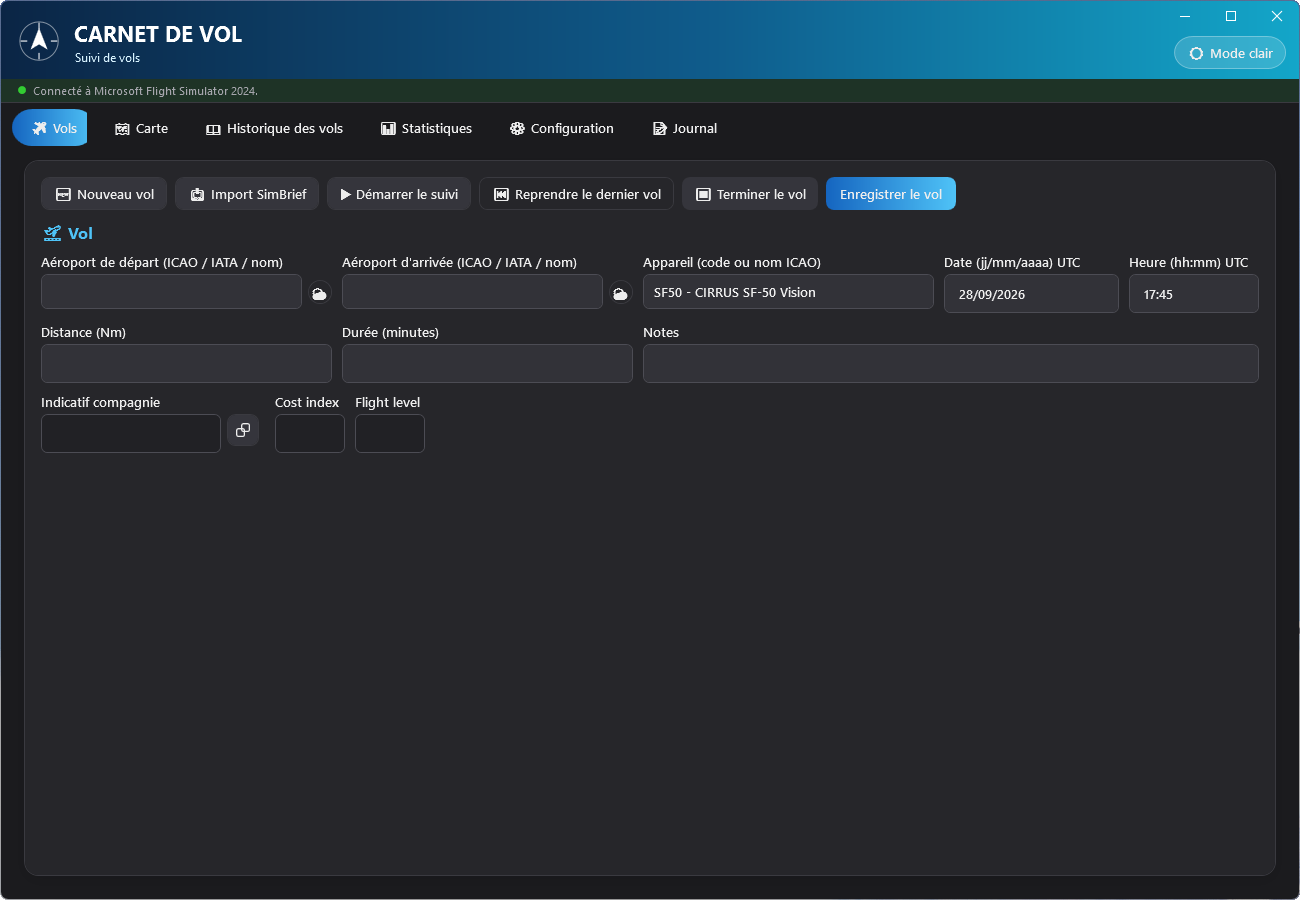
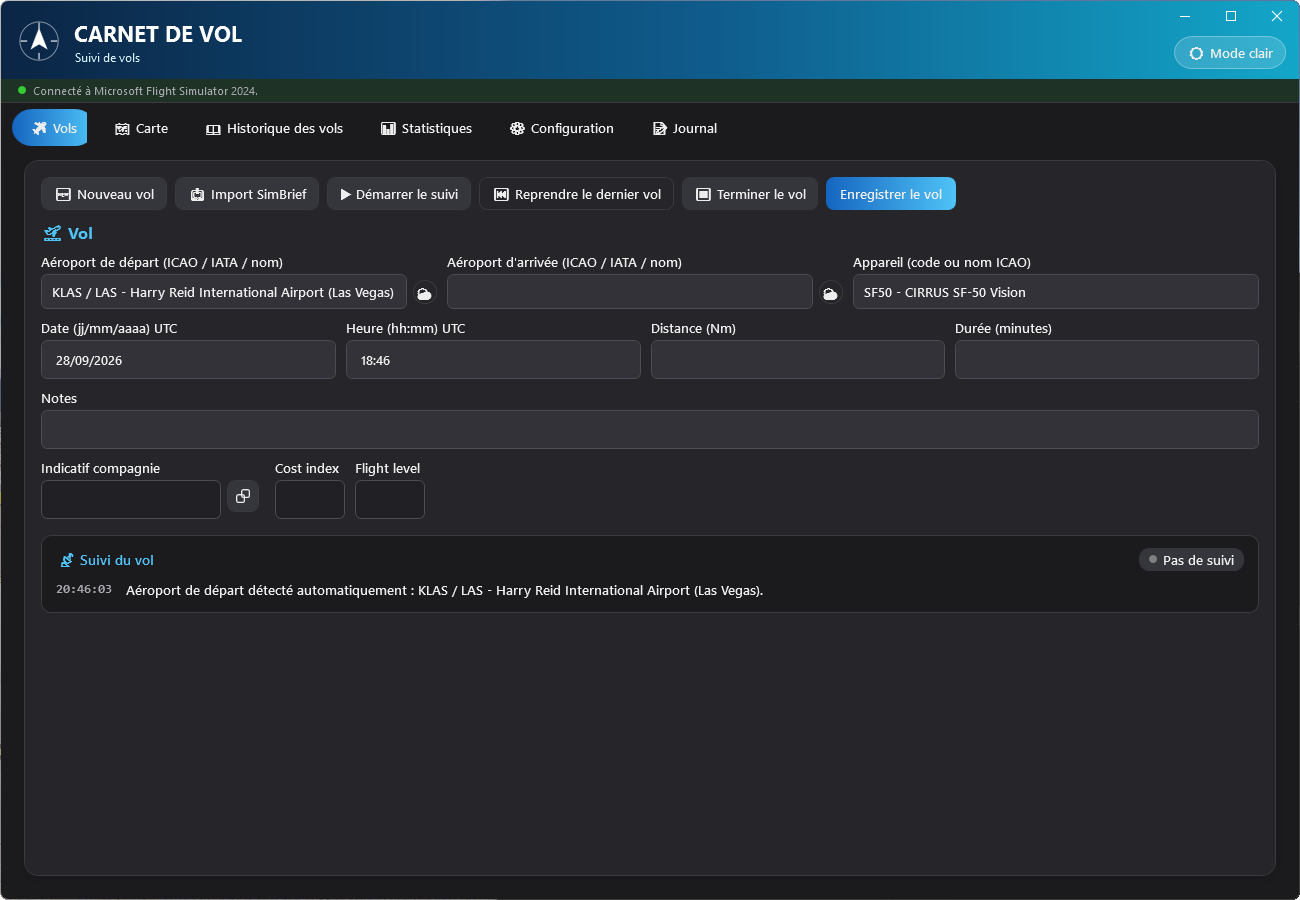
Carnet de Vol 1.0.27 : guides, captures et plaquettes
- Guides fr/en/es recopiés : cadre « Suivi du vol » de l'onglet Vols, onglet
  Configuration sur deux colonnes, version 1.0.27, titres d'encadrés.
- Les 12 captures des guides et les captures Vols/Configuration des
  plaquettes (assets/img/carnetdevol) refaites ; tailles inchangées.

diff --git a/guides/carnetdevol/guia-usuario.html b/guides/carnetdevol/guia-usuario.html
@@ -225,7 +225,7 @@
   .callout.tip { background: var(--accent-soft); border-color: color-mix(in srgb, var(--accent) 30%, transparent); }
   .callout.warn { background: var(--danger-soft); border-color: color-mix(in srgb, var(--danger) 30%, transparent); }
   .callout.note { background: var(--accent2-soft); border-color: color-mix(in srgb, var(--accent2) 30%, transparent); }
-  .callout strong { display: block; margin-bottom: 4px; }
+  .callout > strong:first-child { display: block; margin-bottom: 4px; }
 
   .example {
     border-left: 3px solid var(--accent);
@@ -272,7 +272,7 @@
   <div class="icon">🧭</div>
   <h1>Bitácora de vuelo — Guía del usuario</h1>
   <p>Seguimiento de vuelos · Microsoft Flight Simulator 2024</p>
-  <span class="badge">Versión 1.0.26 · Windows · aplicación nativa</span>
+  <span class="badge">Versión 1.0.27 · Windows · aplicación nativa</span>
 </header>
 
 <div class="layout">
@@ -413,9 +413,10 @@
       <figure>
         <img src="../../assets/img/carnetdevol/en-vols.png" alt="Pestaña Vuelos: vuelo Londres – París importado de SimBrief, seguimiento en curso" loading="lazy" />
         <figcaption>El formulario de vuelo (capturas con la interfaz en inglés), aquí rellenado por
-        la importación de SimBrief durante un seguimiento en directo: aeropuertos, aeronave,
-        fecha/hora, distancia, duración, notas, indicativo de la aerolínea, cost index y flight
-        level.</figcaption>
+        la importación de SimBrief durante un seguimiento en directo: aeropuertos y aeronave en la
+        primera fila, fecha/hora, distancia y duración en la segunda, notas en todo el ancho y
+        después indicativo de la aerolínea, cost index y flight level; debajo, el recuadro
+        «Seguimiento del vuelo».</figcaption>
       </figure>
 
       <h3 id="vuelos-manual">Introducción manual</h3>
@@ -508,6 +509,20 @@
           (calculada a partir de la traza GPS, no en línea recta), duración, altitud máxima,
           aeronave y datos del aterrizaje se rellenan sin introducción manual.</li>
         </ol>
+        <p>El recuadro <strong>Seguimiento del vuelo</strong>, debajo del formulario, resume el
+        seguimiento:</p>
+        <ul>
+          <li>una <strong>etiqueta</strong> arriba a la derecha: <em>Sin seguimiento</em> (punto gris)
+          o <em>Seguimiento en curso</em> (punto verde);</li>
+          <li>el <strong>último aterrizaje</strong> (calidad, velocidad vertical, G y rebotes);</li>
+          <li>el <strong>historial con la hora</strong> de las etapas del seguimiento: inicio,
+          aeropuerto de salida detectado, aterrizaje, vuelo guardado. Cada etapa se añade a la
+          lista en lugar de sustituir a la anterior, y los <strong>errores</strong> (MSFS no
+          conectado, falta el aeropuerto de salida, llegada no encontrada…) se muestran
+          <strong>en naranja</strong>.</li>
+        </ul>
+        <p>El historial vuelve a empezar al iniciar un nuevo seguimiento y al pulsar
+        <span class="btn-label">🆕 Nuevo vuelo</span>.</p>
         <div class="callout tip">
           <strong>Aeronave detectada automáticamente</strong>
           Nada más conectarse a MSFS, la aplicación identifica la aeronave cargada en el simulador
@@ -551,7 +566,9 @@
           <img src="../../assets/img/carnetdevol/en-atterrissage.png" alt="Ventana emergente de aterrizaje: Suave, 180 ft/min, 1,28 G, icono de pluma" loading="lazy" style="max-width: 344px;" />
           <figcaption>La ventana emergente de aterrizaje tras una toma «Suave»; la cruz de arriba a la derecha la cierra.</figcaption>
         </figure>
-        <p>Esta calidad y estos valores también se guardan con el vuelo y pueden consultarse más
+        <p>La calidad y los valores siguen visibles después en el recuadro
+        <a href="#vuelos-seguimiento">Seguimiento del vuelo</a> de la pestaña Vuelos (línea
+        «Último aterrizaje»). También se guardan con el vuelo y pueden consultarse más
         tarde en el <a href="#pestana-historial">Historial de vuelos</a> (columnas «Aterrizaje
         (ft/min)», «Aterrizaje (G)», «Rebotes» y «Calidad del aterrizaje»), por ejemplo para
         filtrar sus mejores (o peores) aterrizajes.</p>
@@ -568,7 +585,8 @@
           <li>MSFS 2024 está abierto, con un vuelo cargado en el aparcamiento de salida. La barra de estado se pone verde.</li>
           <li>La aeronave cargada en MSFS aparece sola en el campo <span class="ui">Aeronave</span>.</li>
           <li>Empieza a rodar: el aeropuerto de salida se rellena solo, el seguimiento empieza
-          automáticamente y la pestaña <span class="ui">Mapa</span> empieza a dibujar su posición.</li>
+          automáticamente (el recuadro <span class="ui">Seguimiento del vuelo</span> pasa a
+          «Seguimiento en curso») y la pestaña <span class="ui">Mapa</span> empieza a dibujar su posición.</li>
           <li>En vuelo, consulta el panel <span class="ui">Datos en directo</span> (altitud, rumbo,
           velocidades, hora estimada de llegada) directamente en el mapa.</li>
           <li>Tres segundos después de la toma, una ventana muestra la calidad de su aterrizaje
@@ -698,10 +716,14 @@
       <p class="section-lead">Idioma de la aplicación, usuario de SimBrief, actualización de aeropuertos/aeronaves e importación de SimToolKitPro.</p>
       <figure>
         <img src="../../assets/img/carnetdevol/en-config.png" alt="Pestaña Configuración con los bloques Idioma, SimBrief, Aeropuertos y Aeronaves" loading="lazy" />
-        <figcaption>Elección del idioma, usuario de SimBrief y, después, contadores y fecha de la
-        última actualización de cada conjunto de datos.</figcaption>
+        <figcaption>Los ajustes a la izquierda (idioma, usuario de SimBrief, importación de
+        SimToolKitPro) y los conjuntos de datos a la derecha, con sus contadores y la fecha de la
+        última actualización.</figcaption>
       </figure>
       <div class="card">
+        <p>La pestaña se organiza en <strong>dos columnas</strong>: los ajustes a la izquierda y
+        los datos de aeropuertos y aeronaves a la derecha. En una ventana estrecha (menos de unos
+        900 píxeles de ancho), los bloques se apilan en una sola columna.</p>
         <h4>🌐 Idioma</h4>
         <p>La lista <strong>Idioma de la aplicación</strong> solo ofrece los idiomas disponibles
         (actualmente <strong>Español</strong>, <strong>English</strong> y <strong>Français</strong>).
@@ -928,7 +950,7 @@
 </div>
 
 <footer>
-  Bitácora de vuelo (Carnet de Vol) — FS2024 · Guía redactada para la versión 1.0.26.
+  Bitácora de vuelo (Carnet de Vol) — FS2024 · Guía redactada para la versión 1.0.27.
 </footer>
 
 <script>

diff --git a/guides/carnetdevol/guide-utilisateur.html b/guides/carnetdevol/guide-utilisateur.html
@@ -225,7 +225,7 @@
   .callout.tip { background: var(--accent-soft); border-color: color-mix(in srgb, var(--accent) 30%, transparent); }
   .callout.warn { background: var(--danger-soft); border-color: color-mix(in srgb, var(--danger) 30%, transparent); }
   .callout.note { background: var(--accent2-soft); border-color: color-mix(in srgb, var(--accent2) 30%, transparent); }
-  .callout strong { display: block; margin-bottom: 4px; }
+  .callout > strong:first-child { display: block; margin-bottom: 4px; }
 
   .example {
     border-left: 3px solid var(--accent);
@@ -272,7 +272,7 @@
   <div class="icon">🧭</div>
   <h1>Carnet de Vol — Guide de l'utilisateur</h1>
   <p>Suivi de vols · Microsoft Flight Simulator 2024</p>
-  <span class="badge">Version 1.0.26 · Windows · application native</span>
+  <span class="badge">Version 1.0.27 · Windows · application native</span>
 </header>
 
 <div class="layout">
@@ -407,8 +407,9 @@
       <figure>
         <img src="../../assets/img/carnetdevol/fr-vols.png" alt="Onglet Vols : vol Londres – Paris importé de SimBrief, suivi en cours" loading="lazy" />
         <figcaption>Le formulaire de vol, ici rempli par l'import SimBrief pendant un suivi en direct :
-        aéroports, appareil, date/heure, distance, durée, notes, indicatif compagnie, cost index et
-        flight level.</figcaption>
+        aéroports et appareil sur la première ligne, date/heure, distance et durée sur la deuxième,
+        notes sur toute la largeur, puis indicatif compagnie, cost index et flight level ; en
+        dessous, le cadre « Suivi du vol ».</figcaption>
       </figure>
 
       <h3 id="vols-saisie">Saisie manuelle</h3>
@@ -501,6 +502,18 @@
           (calculée à partir du tracé GPS, pas à vol d'oiseau), durée, altitude maximale, appareil
           et données d'atterrissage sont tous renseignés sans saisie manuelle.</li>
         </ol>
+        <p>Le cadre <strong>Suivi du vol</strong>, sous le formulaire, résume le suivi en cours :</p>
+        <ul>
+          <li>un <strong>badge</strong> en haut à droite : <em>Pas de suivi</em> (point gris) ou
+          <em>Suivi en cours</em> (point vert) ;</li>
+          <li>le <strong>dernier atterrissage</strong> (qualité, vitesse verticale, G et rebonds) ;</li>
+          <li>l'<strong>historique horodaté</strong> des étapes du suivi : démarrage, aéroport de
+          départ détecté, atterrissage, vol enregistré. Chaque étape s'ajoute à la liste au lieu de
+          remplacer la précédente, et les <strong>erreurs</strong> (MSFS non connecté, aéroport de
+          départ manquant, arrivée introuvable…) s'affichent <strong>en orange</strong>.</li>
+        </ul>
+        <p>L'historique repart de zéro au démarrage d'un nouveau suivi et au clic sur
+        <span class="btn-label">🆕 Nouveau vol</span>.</p>
         <div class="callout tip">
           <strong>Appareil détecté automatiquement</strong>
           Dès la connexion à MSFS, l'application identifie l'appareil chargé dans le simulateur
@@ -545,7 +558,9 @@
           <img src="../../assets/img/carnetdevol/fr-atterrissage.png" alt="Pop-up d'atterrissage : Doux, 180 ft/min, 1,28 G, icône plume" loading="lazy" style="max-width: 344px;" />
           <figcaption>La pop-up d'atterrissage après un posé « Doux » ; la croix en haut à droite la ferme.</figcaption>
         </figure>
-        <p>Cette qualité et ces valeurs sont aussi conservées avec le vol et consultables plus
+        <p>La qualité et les valeurs restent ensuite affichées dans le cadre
+        <a href="#vols-suivi">Suivi du vol</a> de l'onglet Vols (ligne « Dernier atterrissage »).
+        Elles sont aussi conservées avec le vol et consultables plus
         tard dans l'<a href="#onglet-historique">Historique des vols</a> (colonnes « Atterrissage
         (ft/min) », « Atterrissage (G) », « Rebonds » et « Qualité atterrissage »), ce qui permet
         par exemple de filtrer pour retrouver ses meilleurs — ou pires — posés.</p>
@@ -562,7 +577,8 @@
           <li>MSFS 2024 est ouvert, un vol chargé au parking de départ. La barre d'état passe au vert.</li>
           <li>L'appareil chargé dans MSFS s'affiche tout seul dans le champ <span class="ui">Appareil</span>.</li>
           <li>Vous commencez à rouler : l'aéroport de départ se remplit tout seul, le suivi démarre
-          automatiquement, et l'onglet <span class="ui">Carte</span> se met à tracer votre position.</li>
+          automatiquement (le cadre <span class="ui">Suivi du vol</span> passe à « Suivi en cours »),
+          et l'onglet <span class="ui">Carte</span> se met à tracer votre position.</li>
           <li>En vol, vous consultez le panneau <span class="ui">Données en direct</span> (altitude,
           cap, vitesses, ETA) directement sur la carte.</li>
           <li>Trois secondes après le posé, une pop-up affiche la qualité de votre atterrissage
@@ -691,10 +707,13 @@
       <p class="section-lead">Langue de l'application, identifiant SimBrief, mise à jour des bases aéroports/appareils, et import SimToolKitPro.</p>
       <figure>
         <img src="../../assets/img/carnetdevol/fr-config.png" alt="Onglet Configuration avec les blocs Langue, SimBrief, Aéroports et Appareils" loading="lazy" />
-        <figcaption>Choix de la langue, identifiant SimBrief, puis compteurs et date de dernière
-        mise à jour pour chaque référentiel.</figcaption>
+        <figcaption>Les réglages à gauche (langue, identifiant SimBrief, import SimToolKitPro), les
+        référentiels à droite, avec leurs compteurs et leur date de dernière mise à jour.</figcaption>
       </figure>
       <div class="card">
+        <p>L'onglet est organisé en <strong>deux colonnes</strong> : les réglages à gauche, les
+        référentiels des aéroports et des appareils à droite. Dans une fenêtre étroite (moins de
+        900 pixels de large environ), les blocs s'empilent sur une seule colonne.</p>
         <h4>🌐 Langue</h4>
         <p>La liste <strong>Langue de l'application</strong> ne propose que les langues
         disponibles (aujourd'hui <strong>English</strong>, <strong>Español</strong> et <strong>Français</strong>). Le
@@ -919,7 +938,7 @@
 </div>
 
 <footer>
-  Carnet de Vol — FS2024 · Guide généré pour la version 1.0.26.
+  Carnet de Vol — FS2024 · Guide généré pour la version 1.0.27.
 </footer>
 
 <script>

diff --git a/guides/carnetdevol/user-guide.html b/guides/carnetdevol/user-guide.html
@@ -225,7 +225,7 @@
   .callout.tip { background: var(--accent-soft); border-color: color-mix(in srgb, var(--accent) 30%, transparent); }
   .callout.warn { background: var(--danger-soft); border-color: color-mix(in srgb, var(--danger) 30%, transparent); }
   .callout.note { background: var(--accent2-soft); border-color: color-mix(in srgb, var(--accent2) 30%, transparent); }
-  .callout strong { display: block; margin-bottom: 4px; }
+  .callout > strong:first-child { display: block; margin-bottom: 4px; }
 
   .example {
     border-left: 3px solid var(--accent);
@@ -272,7 +272,7 @@
   <div class="icon">🧭</div>
   <h1>Flight Logbook — User guide</h1>
   <p>Flight tracking · Microsoft Flight Simulator 2024</p>
-  <span class="badge">Version 1.0.26 · Windows · native application</span>
+  <span class="badge">Version 1.0.27 · Windows · native application</span>
 </header>
 
 <div class="layout">
@@ -410,8 +410,9 @@
       <figure>
         <img src="../../assets/img/carnetdevol/en-vols.png" alt="Flights tab: London – Paris flight imported from SimBrief, tracking in progress" loading="lazy" />
         <figcaption>The flight form, here filled in by the SimBrief import during live tracking:
-        airports, aircraft, date/time, distance, duration, notes, airline callsign, cost index and
-        flight level.</figcaption>
+        airports and aircraft on the first row, date/time, distance and duration on the second,
+        notes across the full width, then airline callsign, cost index and flight level; below,
+        the “Flight tracking” panel.</figcaption>
       </figure>
 
       <h3 id="flights-manual">Manual entry</h3>
@@ -501,6 +502,18 @@
           from the GPS track, not as the crow flies), duration, maximum altitude, aircraft and
           landing data are all filled in without manual entry.</li>
         </ol>
+        <p>The <strong>Flight tracking</strong> panel, below the form, sums up the tracking:</p>
+        <ul>
+          <li>a <strong>badge</strong> at the top right: <em>Not tracking</em> (grey dot) or
+          <em>Tracking</em> (green dot);</li>
+          <li>the <strong>last landing</strong> (rating, vertical speed, G and bounces);</li>
+          <li>the <strong>timestamped history</strong> of the tracking steps: start, departure
+          airport detected, landing, flight saved. Each step is added to the list instead of
+          replacing the previous one, and <strong>errors</strong> (MSFS not connected, missing
+          departure airport, arrival not found…) are shown <strong>in orange</strong>.</li>
+        </ul>
+        <p>The history starts over when a new tracking starts and when you click
+        <span class="btn-label">🆕 New flight</span>.</p>
         <div class="callout tip">
           <strong>Aircraft detected automatically</strong>
           As soon as it connects to MSFS, the application identifies the aircraft loaded in the
@@ -543,7 +556,9 @@
           <img src="../../assets/img/carnetdevol/en-atterrissage.png" alt="Landing pop-up: Soft, 180 ft/min, 1.28 G, feather icon" loading="lazy" style="max-width: 344px;" />
           <figcaption>The landing pop-up after a “Soft” touchdown; the cross at the top right closes it.</figcaption>
         </figure>
-        <p>This rating and these values are also stored with the flight and can be viewed later in
+        <p>The rating and the values then stay visible in the
+        <a href="#flights-tracking">Flight tracking</a> panel of the Flights tab (“Last landing” line).
+        They are also stored with the flight and can be viewed later in
         the <a href="#history-tab">Flight history</a> (“Landing (ft/min)”, “Landing (G)”, “Bounces”
         and “Landing quality” columns), for example to filter your best — or worst — landings.</p>
         <div class="callout note">
@@ -559,7 +574,8 @@
           <li>MSFS 2024 is open, with a flight loaded at the departure gate. The status bar turns green.</li>
           <li>The aircraft loaded in MSFS appears by itself in the <span class="ui">Aircraft</span> field.</li>
           <li>You start taxiing: the departure airport fills itself in, tracking starts
-          automatically, and the <span class="ui">Map</span> tab starts drawing your position.</li>
+          automatically (the <span class="ui">Flight tracking</span> panel switches to “Tracking”),
+          and the <span class="ui">Map</span> tab starts drawing your position.</li>
           <li>In flight, you check the <span class="ui">Live data</span> panel (altitude, heading,
           speeds, ETA) directly on the map.</li>
           <li>Three seconds after touchdown, a pop-up shows your landing quality (touchdown speed,
@@ -682,10 +698,13 @@
       <p class="section-lead">Application language, SimBrief username, airport/aircraft data updates, and SimToolKitPro import.</p>
       <figure>
         <img src="../../assets/img/carnetdevol/en-config.png" alt="Settings tab with the Language, SimBrief, Airports and Aircraft blocks" loading="lazy" />
-        <figcaption>Language choice, SimBrief username, then counters and last update date for
-        each reference dataset.</figcaption>
+        <figcaption>Settings on the left (language, SimBrief username, SimToolKitPro import),
+        reference data on the right, with their counters and last update date.</figcaption>
       </figure>
       <div class="card">
+        <p>The tab is laid out in <strong>two columns</strong>: settings on the left, airport and
+        aircraft reference data on the right. In a narrow window (less than about 900 pixels
+        wide), the blocks stack into a single column.</p>
         <h4>🌐 Language</h4>
         <p>The <strong>Application language</strong> list only offers the available languages
         (currently <strong>English</strong>, <strong>Español</strong> and <strong>Français</strong>). The change is
@@ -906,7 +925,7 @@
 </div>
 
 <footer>
-  Flight Logbook (Carnet de Vol) — FS2024 · Guide written for version 1.0.26.
+  Flight Logbook (Carnet de Vol) — FS2024 · Guide written for version 1.0.27.
 </footer>
 
 <script>
